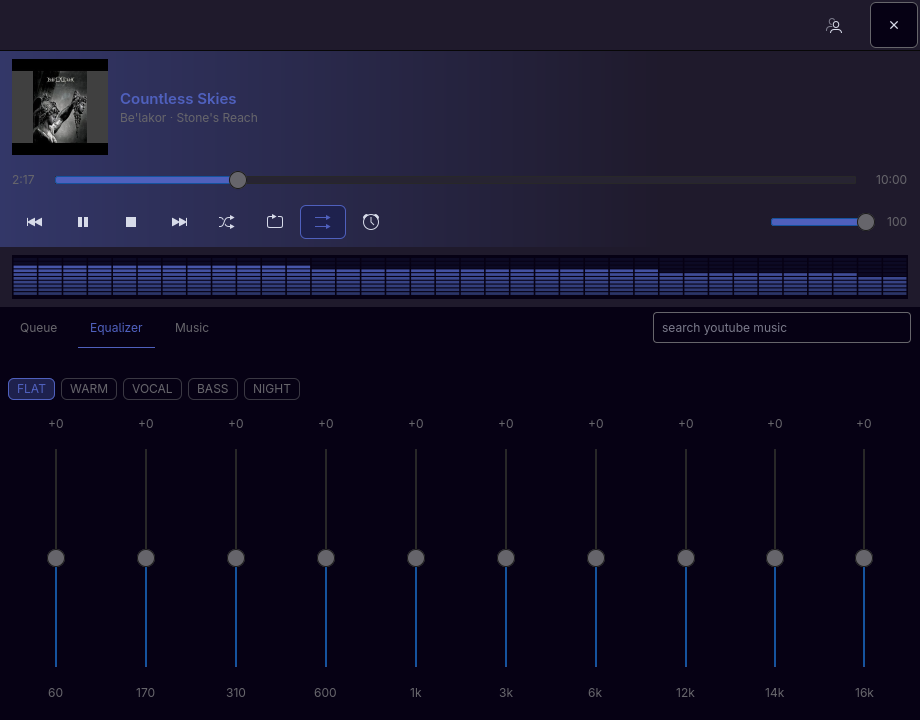
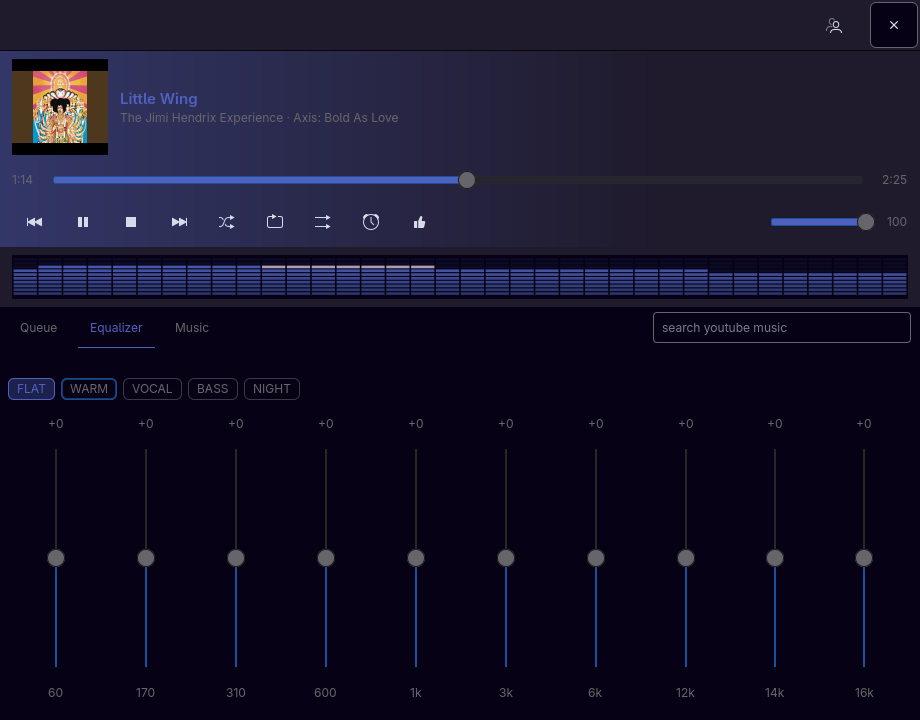
docs: recapture screenshots with the like button and list features
Queue, Equalizer, and Music shots include the thumbs-up control.
README now has a short feature list under the screenshots.

diff --git a/README.md b/README.md
@@ -14,6 +14,17 @@ Works on **Omarchy** and other Arch-family systems including **CachyOS**. The ba
 
 ![Music](docs/screenshots/music.png)
 
+## Features
+
+- Plays YouTube Music from the signed-in browser session on this computer
+- Queue, lyrics, search, and your playlists
+- Like the current track (syncs with Liked Music)
+- Right-click a playlist to rename, delete, or start a mix
+- Shuffle, repeat, play similar, sleep timer, and a ten-band EQ
+- Close the window and audio keeps playing; Ctrl+Q quits
+- Follows the current Omarchy theme when those files exist
+- Optional Omarchy bar chip and Hyprland float rules
+
 ## Needs
 
 - Node 22+ (`nodejs`, `npm`)
